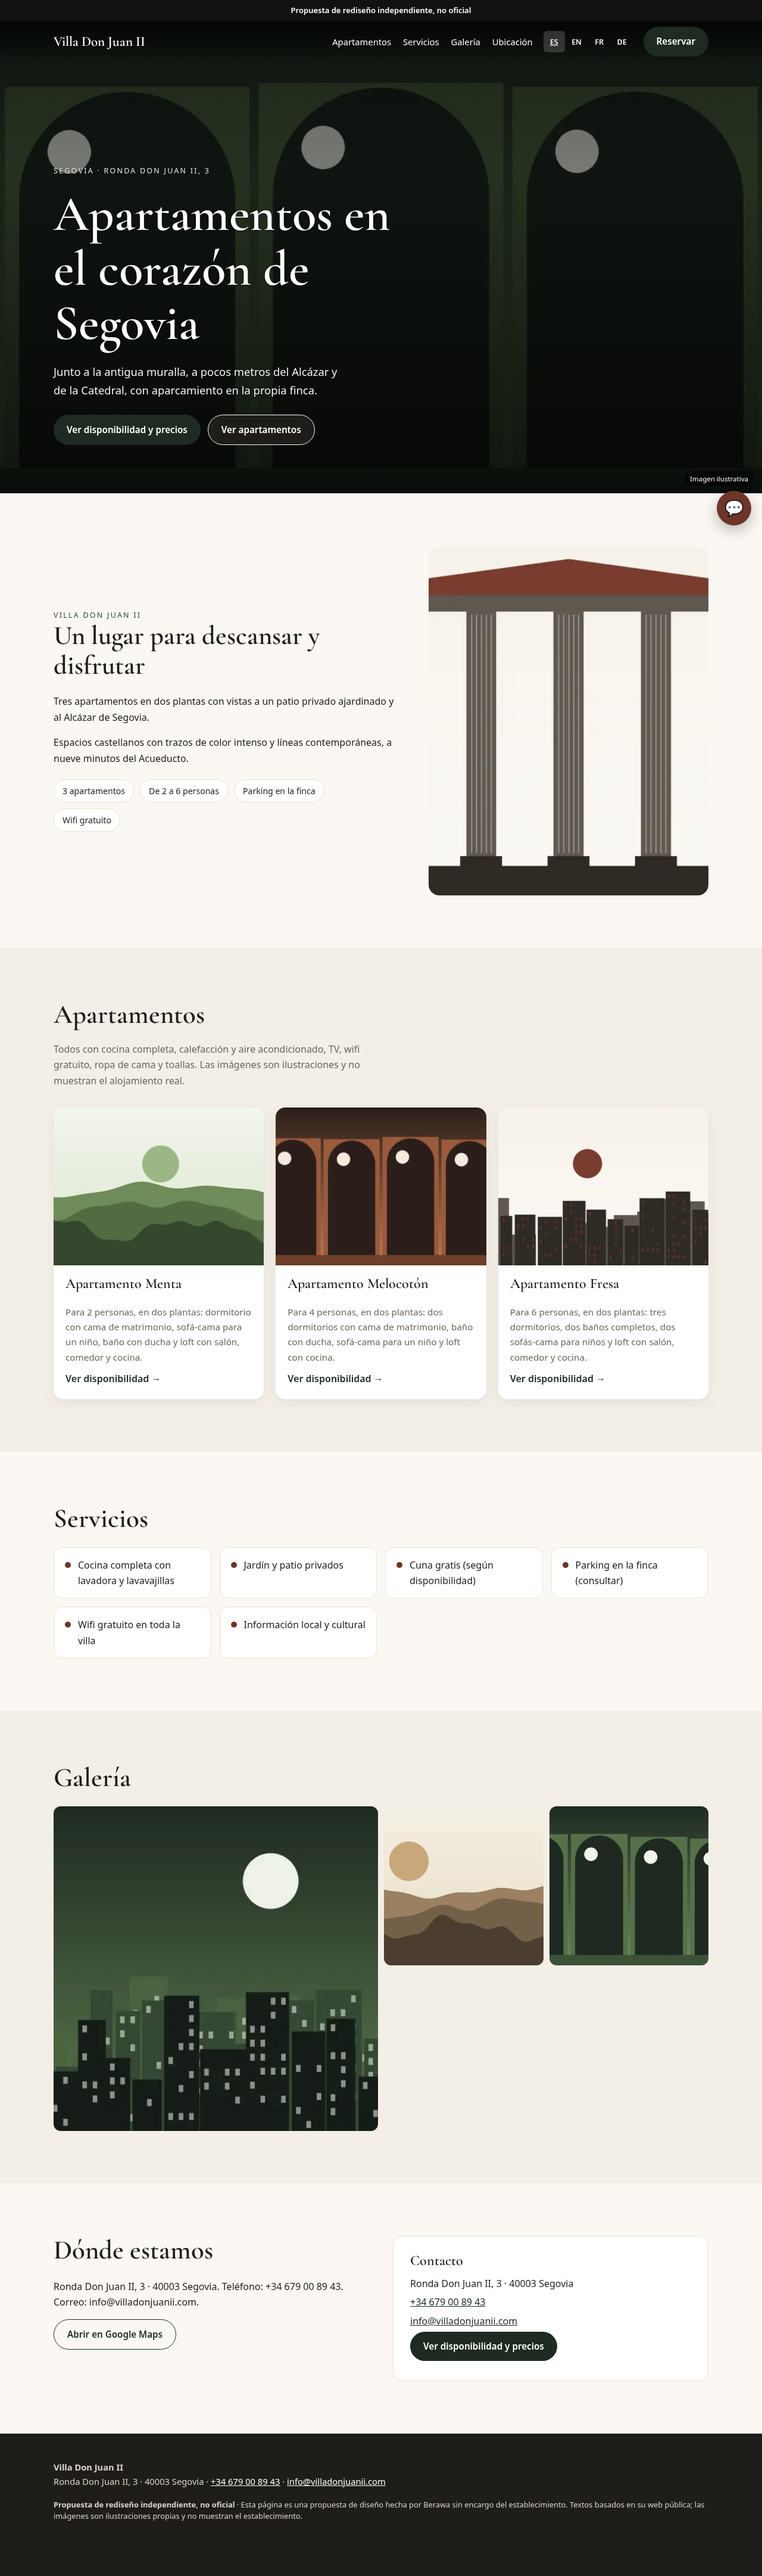
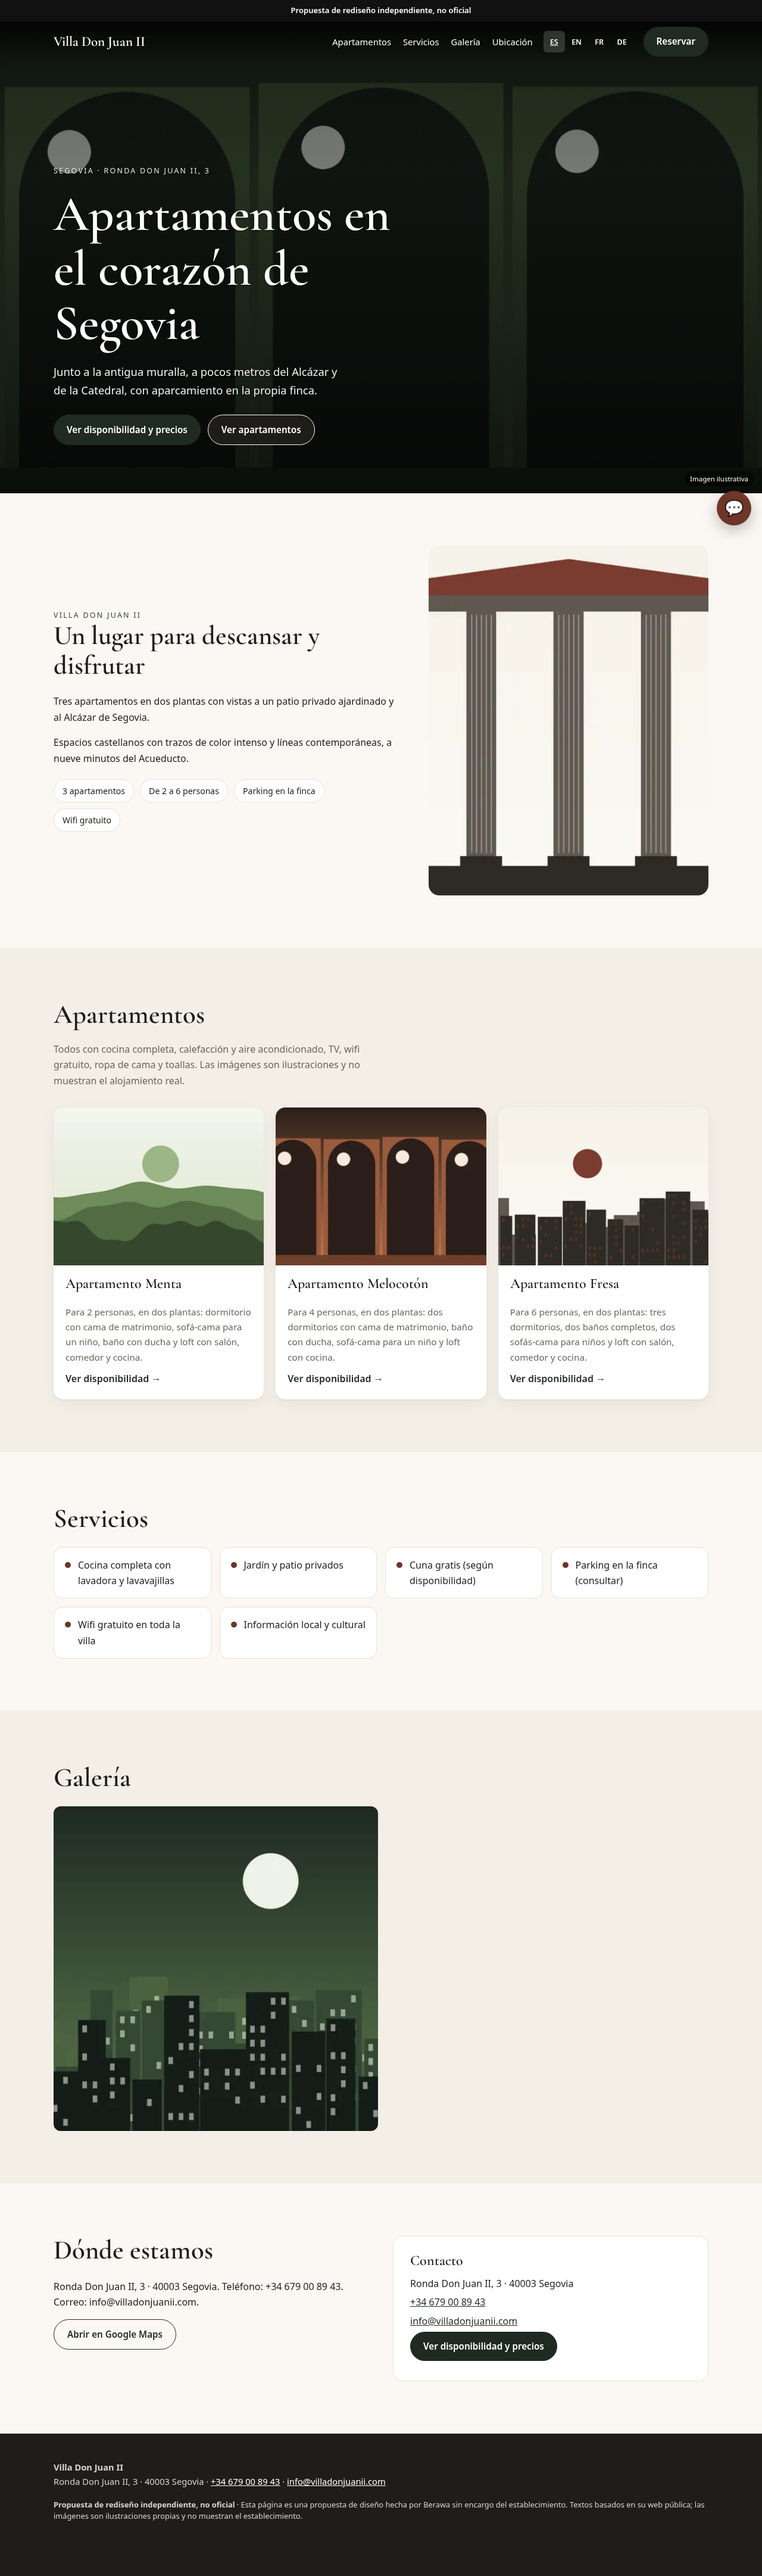
docs: informe QA Grok (A1-A11, C01-C16, Lighthouse) y evidencias tras la correccion

Changed region(s): [[0.5, 0.6869, 0.9375, 0.7805]]

diff --git a/berawa/QA-GROK.md b/berawa/QA-GROK.md
@@ -2,44 +2,44 @@
 
 Autocontrol de fabricación (G04, A1–A11) y checklist C01–C16 (`docs/BERAWA-QA-CHECKLIST.md`) pasados por Grok antes del PR. **No es una auditoría independiente ni una aprobación**: Codex solo audita una muestra y nada se publica ni se envía sin visto bueno de Juan.
 
-- Rama: `demo/apartamentos-villa-don-juan-ii-segovia` · HEAD de las pruebas: `f1af4d6d249d6203cedd8967eee59228f0d59d3a` · fecha: 02/11/2026 11:09 (Europe/Madrid)
+- Rama: `demo/apartamentos-villa-don-juan-ii-segovia` · HEAD de las pruebas: `9eb790660076e8fc141ae5dc1fe147bd550cafbc` · fecha: 02/11/2026 11:19 (Europe/Madrid)
 - Entorno: Chromium de Playwright (instalado por `playwright install chromium` en el clon limpio), axe-core 4.14.0, Lighthouse 13.6.0 (3 pasadas, mediana).
-- Resultado: **QA_GROK_FAIL**
+- Resultado: **QA_GROK_PASS**
 - Negocio medido: Maps 4.8 (LEIDA, coincide web) · web original: LCP > 4 s · titular ESTHER GONZÁLEZ SANZ (autónoma) (persona jurídica, sin cadena).
 
 ## Controles A1–A11
 | Nº | Control | Resultado | Evidencia |
 |---|---|---|---|
-| A1 | Idiomas ES/EN/FR/DE (selector con 4 botones; ningún otro idioma) | **NO** | qa/chat-i18n.json, qa/file-chat-i18n.json (data-t = traducción; alemán completo; sin restos de otros idiomas; un ?lang= no previsto cae a es) |
-| A2 | Chatbot con knowledge.json (citas, cifras, 4+ preguntas por idioma, desconocida, forzar invención, reserva, claves ambiguas = 0) | **NO** | qa/check_kb.txt, qa/chat-i18n.json, keys_test en qa/run_checks-zip.txt y qa/clon-limpio.txt |
+| A1 | Idiomas ES/EN/FR/DE (selector con 4 botones; ningún otro idioma) | **CUMPLE** | qa/chat-i18n.json, qa/file-chat-i18n.json (data-t = traducción; alemán completo; sin restos de otros idiomas; un ?lang= no previsto cae a es) |
+| A2 | Chatbot con knowledge.json (citas, cifras, 4+ preguntas por idioma, desconocida, forzar invención, reserva, claves ambiguas = 0) | **CUMPLE** | qa/check_kb.txt, qa/chat-i18n.json, keys_test en qa/run_checks-zip.txt y qa/clon-limpio.txt |
 | A3 | Accesibilidad: axe sin violaciones (2 viewports × 4 idiomas × inicio/menú/chat), Lighthouse accesibilidad ≥ 95, teclado, contraste sobre foto ≥ 4,5 | **CUMPLE** | qa/axe-teclado.json, qa/contraste.json, qa/lighthouse-3pasadas.json |
 | A4 | Seguridad: sin innerHTML con datos, noopener noreferrer, sin terceros, CSP por meta probada | **CUMPLE** | qa/seguridad.json |
 | A5 | Datos con fuente y fecha; leídas todas las fichas | **CUMPLE** | berawa/sources.json, berawa/evidence/source-text.json, berawa/evidence/captacion.json |
 | A6 | Imágenes: ninguna del negocio; manifiesto con hash, origen y licencia | **CUMPLE** | berawa/asset_manifest.json (todo origin=generated + fuente OFL), LICENSES.md |
-| A7 | Entrega: ZIP determinista, descomprimido y probado por HTTP y file://, idéntico a la rama | **NO** | qa/run_checks-zip.txt, qa/zip/, resumen.json (sha256 del ZIP, 0 ficheros distintos) |
+| A7 | Entrega: ZIP determinista, descomprimido y probado por HTTP y file://, idéntico a la rama | **CUMPLE** | qa/run_checks-zip.txt, qa/zip/, resumen.json (sha256 del ZIP, 0 ficheros distintos) |
 | A8 | Trazabilidad: un commit por bloque; scripts y evidencias commiteados; cambios V1.0 aparte | **CUMPLE** | git log de la rama; berawa/V1.0-CAMBIOS.md |
 | A9 | Precios del chatbot: REGLA DE PRECIOS: CUMPLE | **CUMPLE** | qa/check_kb.txt, qa/check_kb-zip.txt |
-| A10 | Reproducibilidad: clon limpio + dependencias documentadas + run_checks --file en verde; rg /workspace vacío | **NO** | qa/clon-limpio.txt, qa/rg-workspace.txt |
+| A10 | Reproducibilidad: clon limpio + dependencias documentadas + run_checks --file en verde; rg /workspace vacío | **CUMPLE** | qa/clon-limpio.txt, qa/rg-workspace.txt |
 | A11 | git diff --check main...HEAD sin salida | **CUMPLE** | qa/git-diff-check.txt |
 
 ## Checklist C01–C16
 | Código | Control | Resultado | Evidencia |
 |---|---|---|---|
-| C01 | Repositorio y SHA | **CUMPLE** | HEAD del clon limpio = f1af4d6d249d6203cedd8967eee59228f0d59d3a (el SHA final del PR es el del commit que añade este informe) |
+| C01 | Repositorio y SHA | **CUMPLE** | HEAD del clon limpio = 9eb790660076e8fc141ae5dc1fe147bd550cafbc (el SHA final del PR es el del commit que añade este informe) |
 | C02 | Identidad y fuentes | **CUMPLE** | nombre, teléfono, dirección y datos comerciales con cita literal en berawa/knowledge.json; titular persona jurídica sin cadena y nota de Maps en berawa/evidence/captacion.json |
 | C03 | Licencias | **CUMPLE** | asset_manifest.json: ilustraciones propias generadas (origin=generated) y fuente Cormorant OFL; ninguna imagen, logo ni vídeo del negocio |
 | C04 | Diseño personalizado y no suplantador | **CUMPLE** | paleta e ilustraciones propias, aviso «Propuesta de rediseño independiente, no oficial» arriba y en el pie, sin logo ni marca del negocio; revisión visual de qa/capturas/ |
-| C05 | Móvil 375 px en navegador real | **NO** | qa/capturas/movil-*.png; desbordamiento horizontal 0 px; axe y teclado en 375 px |
-| C06 | Escritorio 1280 px en navegador real | **NO** | qa/capturas/escritorio-*.png; desbordamiento horizontal 0 px; axe y teclado en 1280 px |
-| C07 | Español completo, botones y chatbot | **NO** | qa/chat-i18n.json (es) |
-| C08 | Alemán completo, botones y chatbot | **NO** | qa/chat-i18n.json (de) |
-| C09 | Inglés completo, botones y chatbot | **NO** | qa/chat-i18n.json (en) |
-| C10 | Francés completo, botones y chatbot | **NO** | qa/chat-i18n.json (fr) |
-| C11 | Chatbot: conocida, sinónimo, desconocida y prohibición de inventar | **NO** | tests por idioma: preguntas conocidas con otras palabras, 2 desconocidas con respuesta «No dispongo de esa información», petición de confirmar disponibilidad (no la confirma) |
+| C05 | Móvil 375 px en navegador real | **CUMPLE** | qa/capturas/movil-*.png; desbordamiento horizontal 0 px; axe y teclado en 375 px |
+| C06 | Escritorio 1280 px en navegador real | **CUMPLE** | qa/capturas/escritorio-*.png; desbordamiento horizontal 0 px; axe y teclado en 1280 px |
+| C07 | Español completo, botones y chatbot | **CUMPLE** | qa/chat-i18n.json (es) |
+| C08 | Alemán completo, botones y chatbot | **CUMPLE** | qa/chat-i18n.json (de) |
+| C09 | Inglés completo, botones y chatbot | **CUMPLE** | qa/chat-i18n.json (en) |
+| C10 | Francés completo, botones y chatbot | **CUMPLE** | qa/chat-i18n.json (fr) |
+| C11 | Chatbot: conocida, sinónimo, desconocida y prohibición de inventar | **CUMPLE** | tests por idioma: preguntas conocidas con otras palabras, 2 desconocidas con respuesta «No dispongo de esa información», petición de confirmar disponibilidad (no la confirma) |
 | C12 | CTA con destinos reales, sin falsa reserva | **CUMPLE** | solo mailto:, tel: y enlaces a páginas de reserva del propio negocio (project.json → book); sin motor propio; sec_scan |
-| C13 | Transparencia: aviso demo no oficial y noindex | **NO** | aviso visible en los 4 idiomas, meta robots noindex,nofollow y robots.txt Disallow: / |
+| C13 | Transparencia: aviso demo no oficial y noindex | **CUMPLE** | aviso visible en los 4 idiomas, meta robots noindex,nofollow y robots.txt Disallow: / |
 | C14 | Seguridad: sin secretos, XSS ni recolección engañosa | **CUMPLE** | qa/seguridad.json; el sitio no recoge datos |
-| C15 | Entrega: ZIP, descomprimir, servir y navegar fuera de GitHub Pages | **NO** | qa/run_checks-zip.txt (HTTP y file:// sobre el ZIP descomprimido) |
+| C15 | Entrega: ZIP, descomprimir, servir y navegar fuera de GitHub Pages | **CUMPLE** | qa/run_checks-zip.txt (HTTP y file:// sobre el ZIP descomprimido) |
 | C16 | Rendimiento medido (Lighthouse 3 pasadas, mediana) | **CUMPLE** | qa/lighthouse-3pasadas.json · SEO < 90 por el `noindex,nofollow` y el `robots.txt` con `Disallow: /` (is-crawlable y robots-txt), exigidos por la V1.0; no se maquilla. |
 
 ## Lighthouse (mediana de 3 pasadas)
@@ -53,4 +53,4 @@ SEO < 90 por el `noindex,nofollow` y el `robots.txt` con `Disallow: /` (is-crawl
 ## Límites
 - No probado en Safari ni Firefox ni con lector de pantalla.
 - Las imágenes son ilustraciones propias: no muestran el establecimiento y así se rotulan.
-- Tiempo del autocontrol automático (ZIP, clon limpio, Lighthouse, capturas): 9.0 min.
+- Tiempo del autocontrol automático (ZIP, clon limpio, Lighthouse, capturas): 7.8 min.
